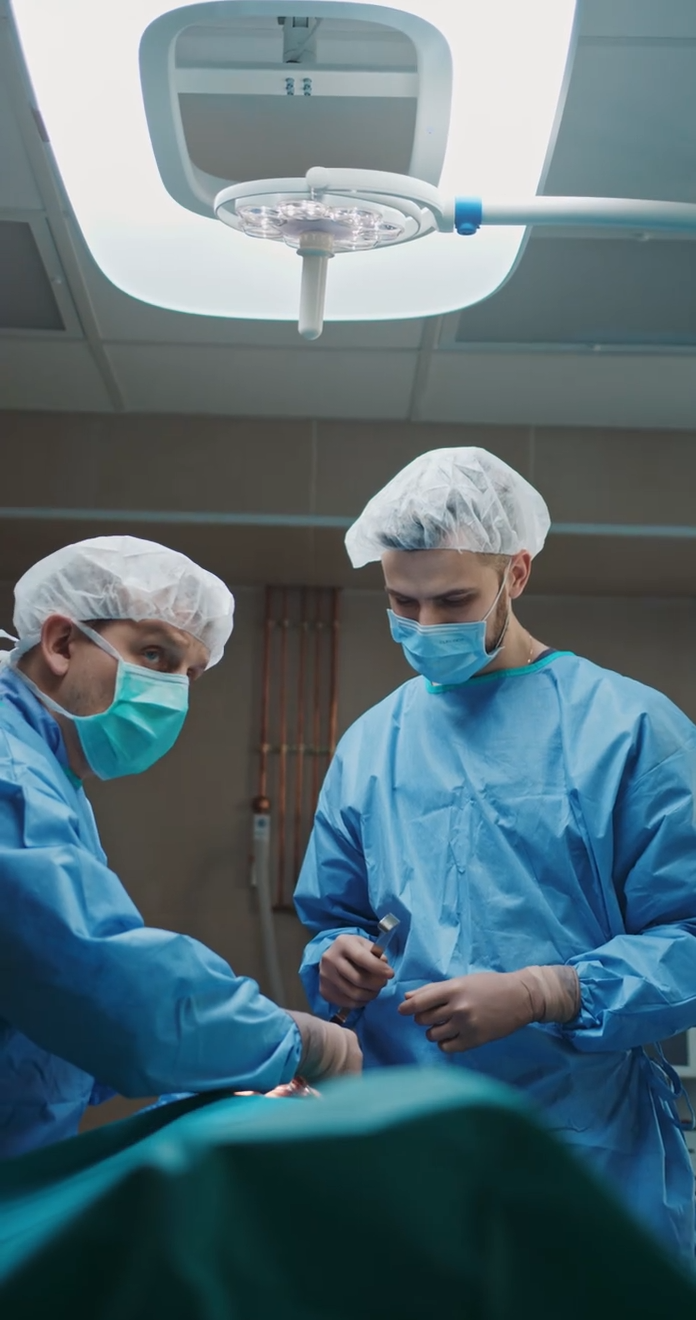
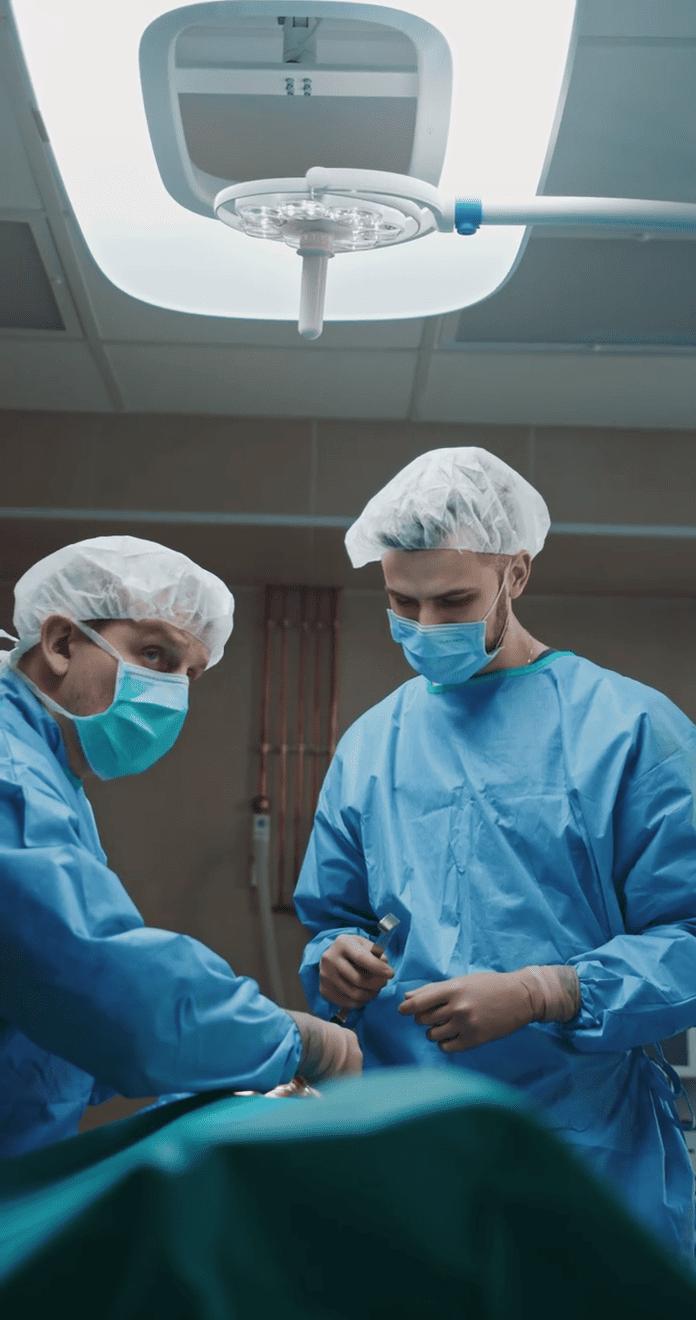
compress images

diff --git a/assets/css/style.css b/assets/css/style.css
@@ -218,7 +218,7 @@
 }
 @media (max-width: 991.98px) {
     .header-carousel .owl-carousel-text {
-        padding: 4px
+        padding: 10px;
     }
 }
 .header-carousel .owl-carousel-text h1 {
